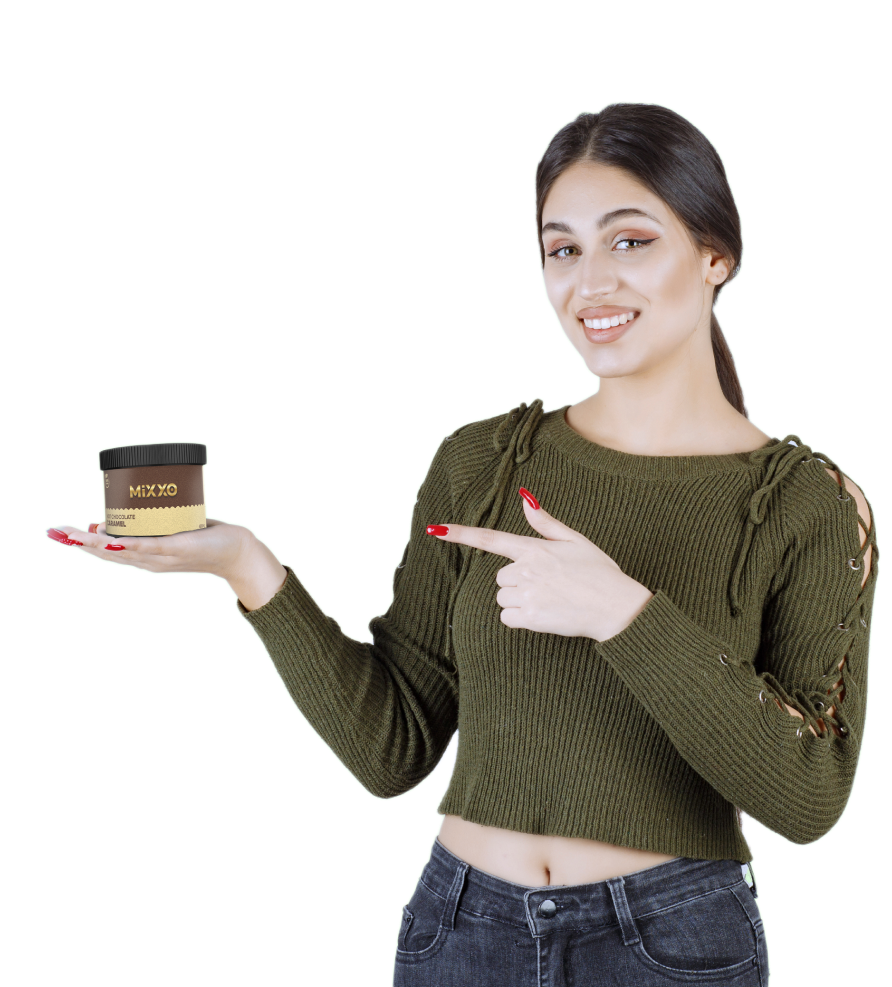
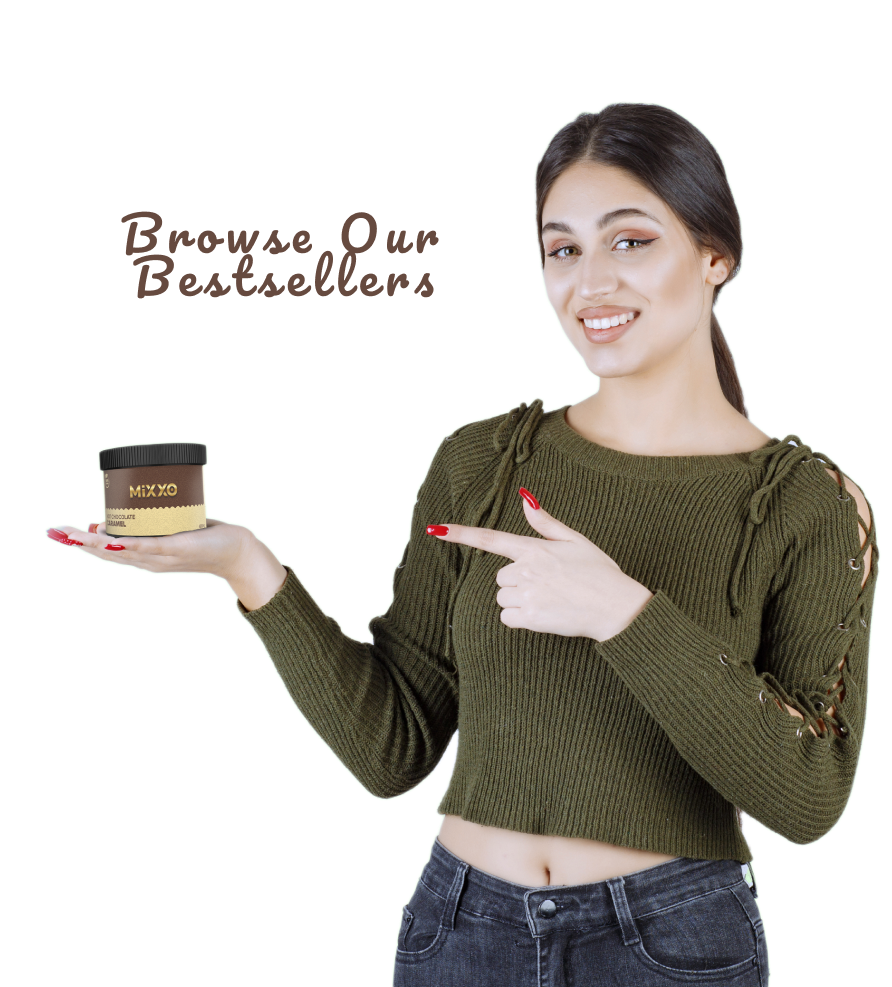
reviews done

Changed region(s): [[0.1211, 0.2128, 0.4843, 0.304]]

diff --git a/src/Pages/Home/components/Review.jsx b/src/Pages/Home/components/Review.jsx
@@ -7,11 +7,11 @@ const review = [];
 
 function ReviewCard() {
 
-  const imageArr = [require("../../../Assets/Review/Image1.jpeg"), require("../../../Assets/Review/Image2.jpeg"), require("../../../Assets/Review/Image3.jpeg")]
+  const imageArr = [require("../../../Assets/Review/Image1.jpeg"), require("../../../Assets/Review/Image2.jpeg"), require("../../../Assets/Review/Image3.jpeg"), require("../../../Assets/Review/Image4.png"), require("../../../Assets/Review/Image5.png"), require("../../../Assets/Review/Image6.png"), require("../../../Assets/Review/Image7.png"),]
 
   return (
     <div className="relative hover:cursor-pointer ">
-      <img className="absolute w-[100%] h-[100%]" src={imageArr[Math.floor(Math.random() * 3)]} alt="review-im" />
+      <img className="absolute w-[100%] h-[100%]" src={imageArr[Math.floor(Math.random() * 7)]} alt="review-im" />
       <p className="revOverlay">
         <h1>Review</h1>
         <p>
@@ -25,9 +25,9 @@ function ReviewCard() {
 
 const Review = () => {
   return (
-    <div className="bg-[#febb8a]">
-      <div id="review" className="flex justify-center py-5 md:py-0 px-[48px] md:px-[128px]">
-        <div className="lg:w-[100%] xl:w-[50%] 2xl:w-[50%] md:w-[100%] sm:w-[100%] lg:p-[5%] xl:p-[5%_5%_5%_0px] 2xl:p-[5%_5%_5%_0px] md:p-[5%] sm:p-[5%] flex flex-col-reverse md:flex-col items-center justify-center">
+    <div className="bg-gradient-to-b from-[#FE6B0180] to-[#F79E1B80]">
+      <div id="review" className="flex justify-center py-2 md:py-0 px-[48px] md:px-[128px]">
+        <div className="lg:w-[100%] xl:w-[50%] 2xl:w-[50%] md:w-[100%] sm:w-[100%] lg:p-[5%] xl:p-[0%_5%_0%_0px] 2xl:p-[0%_5%_0%_0px] md:p-[5%] sm:p-[5%] flex flex-col-reverse md:flex-col items-center justify-center">
           <div className="h-[max-content] xl:hidden py-[32px] break-words text-[38px] text-[#664A3F] text-center font-pacifico flex flex-col space-y-3">
             <p className="landing-[100%] text-2xl sm:text-2xl md:text-3xl lg:text-4xl">Browse Our Bestsellers</p>
           </div>
@@ -71,14 +71,12 @@ const Review = () => {
           </div>
         </div>
         <div className="hidden relative xl:flex flex-col items-start w-[50%]">
-        <div className="h-[max-content] pt-[40px] break-words text-[38px] text-[#664A3F] text-start font-pacifico flex flex-col space-y-3">
-            <p className="landing-[100%]">Browse Our Bestsellers</p>
-          </div>
-          <div className="flex items-center justify-center w-full h-[75%] flex-1">
+        
+          <div className="flex items-end justify-center w-full h-[50%] flex-1">
           <img
-            className="h-full object-cover"
+            className="h-[80%] object-cover"
             alt="rev"
-            src={require("../../../Assets/Lady.png")}
+            src={require("../../../Assets/lady.png")}
           /></div>
         </div>
       </div>

diff --git a/src/Pages/Home/components/Sub.jsx b/src/Pages/Home/components/Sub.jsx
@@ -12,7 +12,7 @@ const Sub = () => {
   return (
     <div
       id="faq"
-      className="py-32 flex justify-center items-center"
+      className="py-32 hidden sm:flex justify-center items-center"
     >
       <div className="w-[80%] max-w-[1200px] flex flex-col lg:flex-row rounded-[20px] overflow-hidden">
         <div className="hidden lg:block overflow-hidden">
